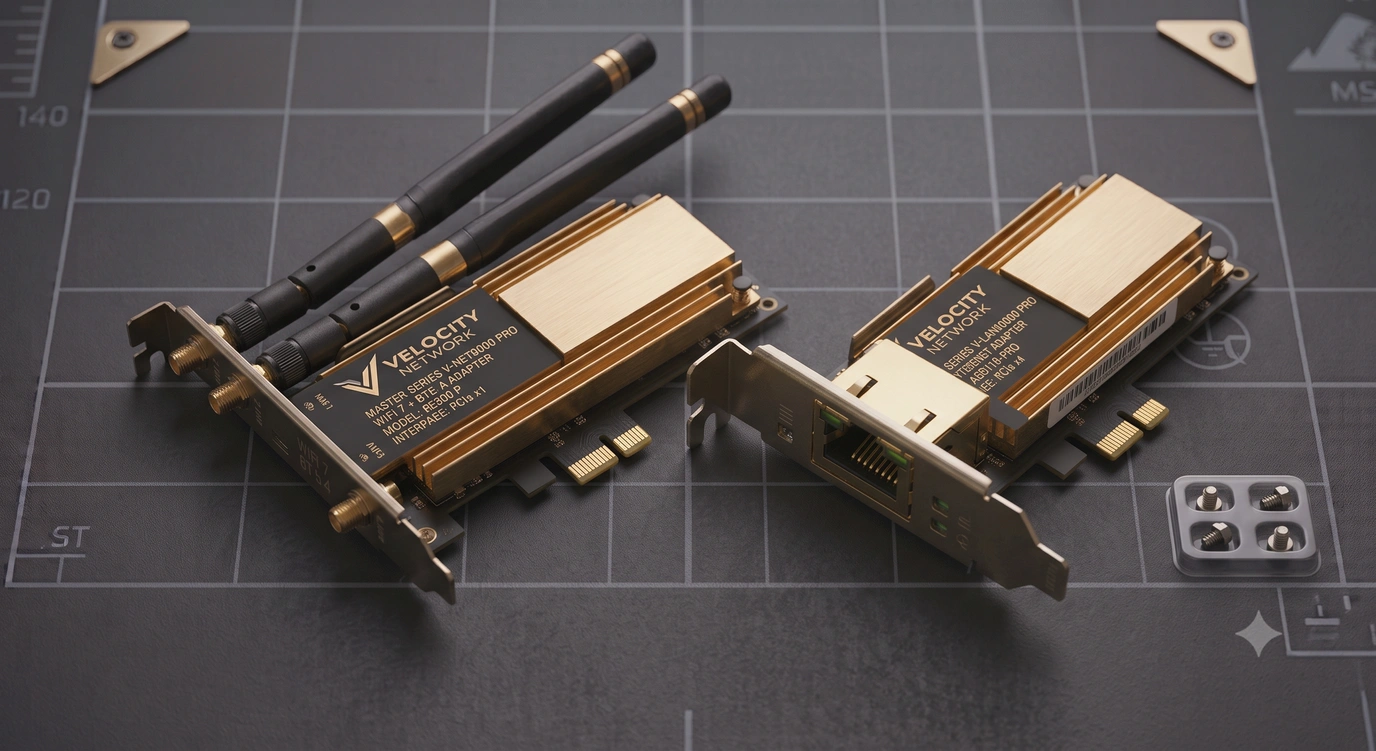
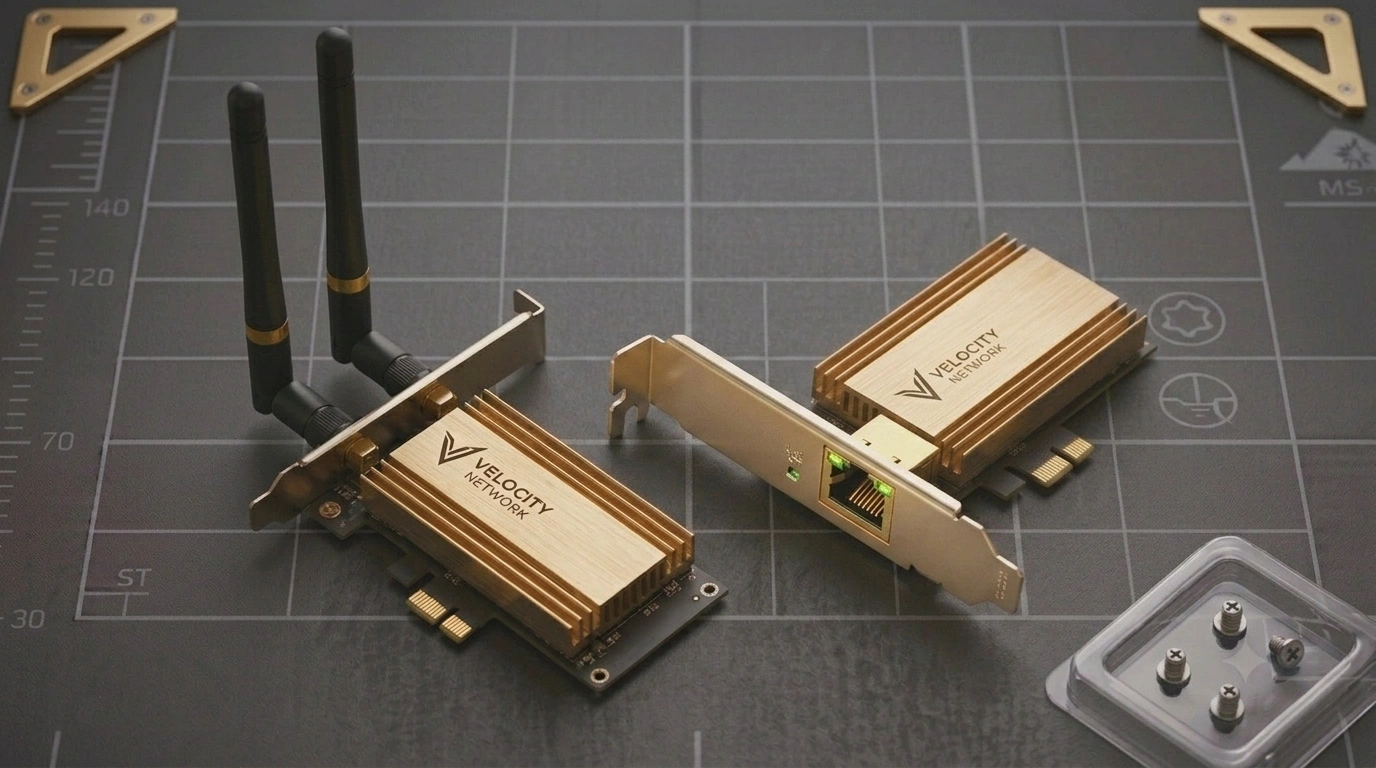
A3

diff --git a/hw/analyze.md b/hw/analyze.md
@@ -508,5 +508,6 @@ Verifiziert per `node --check` auf allen Inline-Skripten und `pdf-engine.js`, As
 | 2 | **Didaktik** | Mainboard-Vorausfüllung entfernt, sodass SuS die Funktion und Analogie selbst erarbeiten. Nur die CPU bleibt als Referenzbeispiel vorausgefüllt. | ✅ umgesetzt |
 | 3 | **Unbeschnittene Bilddarstellung (`object-contain`)** | Umstellung von `object-cover` auf `object-contain`. Bilder werden niemals automatisch beschnitten oder ungefragt vergrößert; die gesamte Platine/Komponente ist immer zu 100 % vollständig sichtbar. | ✅ umgesetzt |
 | 4 | **Zoom-Slider (100 %–160 %)** | Interaktiver Vergrößerungsregler oben links in jeder Bauteil-Karte. Ermöglicht optionales stufenloses Hineinzoomen in Detailbereiche bei 100 % nativer Basisskalierung. | ✅ umgesetzt & visuell geprüft |
-| 5 | **Mainboard Dual-Image** | `VL-MB1.webp` und `VL-MB2.webp` (Perspektive und Draufsicht) nebeneinander in A3 integriert (Qualität 95 %, max-width 1376px). | ✅ umgesetzt & visuell geprüft |
+| 5 | **Mainboard Dual-Image** | `VL-MB1.webp` und `VL-MB2.webp` (Perspektive und Draufsicht) nebeneinander in A3 integriert (Qualität 95 %, max-width 1376px, zentrierter Zoom auf Platine 2). | ✅ umgesetzt & visuell geprüft |
+| 6 | **Netzwerkkarte (VL-Network)** | Bild physikalisch korrigiert: Genau 2 WLAN-Antennen an der Außenseite des Slotblechs nach oben gerichtet; Ethernet-Karte mit frontaler Sicht auf den goldenen RJ45-Port (Kontakte & LEDs sichtbar) im Velocity-Look neu generiert. | ✅ umgesetzt & visuell geprüft |
 
